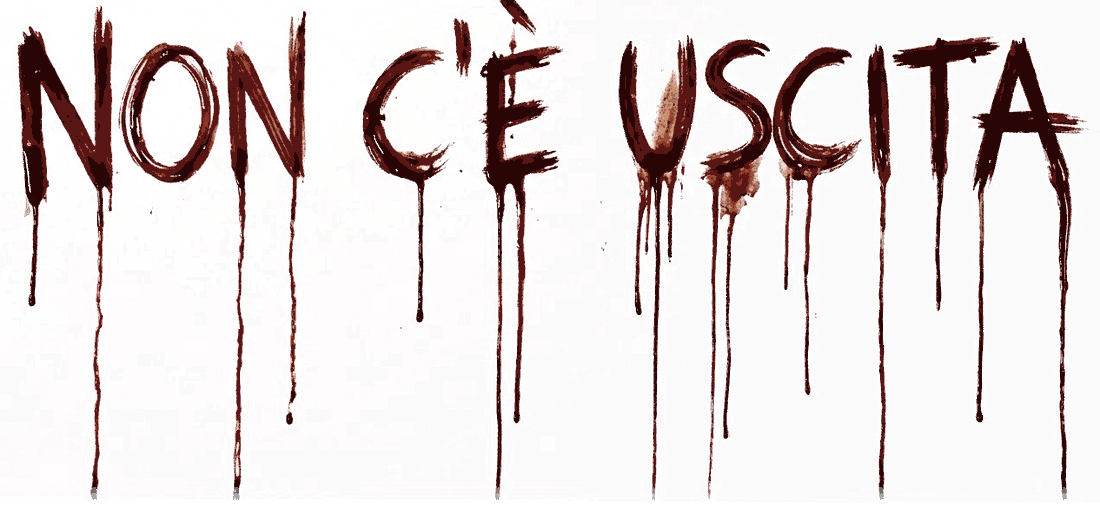
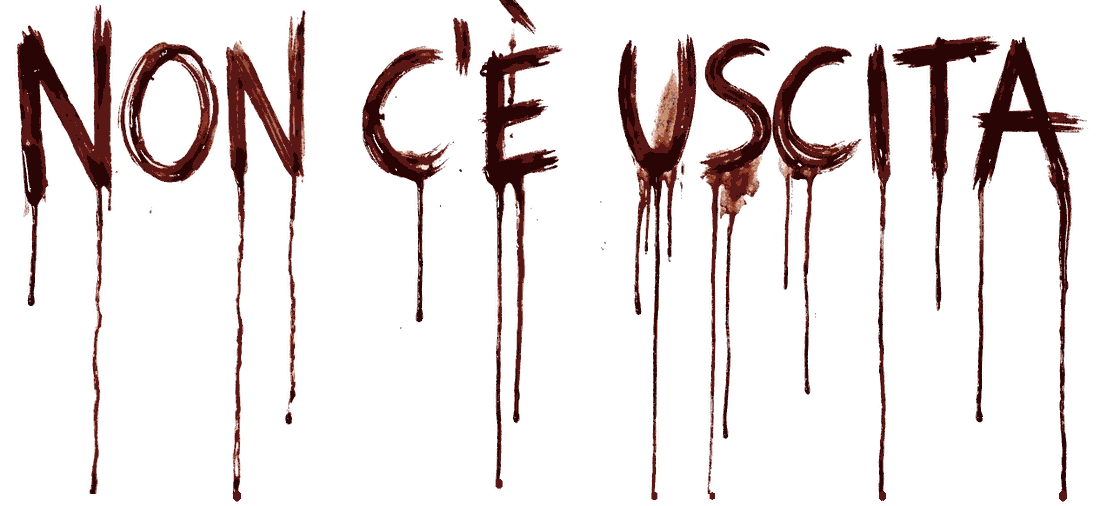
Scritte standard: colate di lunghezza e forma diverse (meno simmetriche)
Claude-Session: https://claude.ai/code/session_014dApnh5cQuMdZvTWDcVASP

diff --git a/sw.js b/sw.js
@@ -2,8 +2,8 @@
  * - Shell (html/css/js/vendor/icone): precache, cache-first. Nuova versione => nuovo SW "in attesa" => banner nell'app.
  * - Asset pesanti (modelli, texture, audio): cache separata; scaricati in background dopo l'installazione.
  * Le due versioni qui sotto le aggiorna tools/bump.sh a ogni modifica (hash del contenuto): non toccarle a mano. */
-const SHELL_VERSION = '640b9ba067';   // @shell
-const ASSET_VERSION = '8097afc078';   // @assets
+const SHELL_VERSION = '3964951753';   // @shell
+const ASSET_VERSION = '253e92c497';   // @assets
 const SHELL = 'ng-shell-' + SHELL_VERSION, ASSETS = 'ng-assets-' + ASSET_VERSION;
 const SHELL_FILES = ['./','./css/style.css','./icons/icon-180.png','./icons/icon-192.png','./icons/icon-32.png','./icons/icon-512.png','./icons/maskable-512.png','./index.html','./js/audio/audio.js','./js/events/ambient.js','./js/events/cellar.js','./js/events/combat.js','./js/events/dawn.js','./js/events/door.js','./js/events/glass.js','./js/events/hall.js','./js/events/morgue.js','./js/events/notes.js','./js/events/rats.js','./js/events/scare.js','./js/events/sorella.js','./js/events/tower.js','./js/events/tv.js','./js/events/warehouse.js','./js/main.js','./js/personal.js','./js/player/controls.js','./js/player/player.js','./js/pwa.js','./js/story.js','./js/ui/instability.js','./js/ui/rgbshift.js','./js/world/atmos.js','./js/world/blood.js','./js/world/bloodfont.js','./js/world/decor.js','./js/world/dust.js','./js/world/extra.js','./js/world/fingerwrite.js','./js/world/lights.js','./js/world/materials.js','./js/world/nun.js','./js/world/props.js','./js/world/redlight.js','./js/world/rooms.js','./js/world/tunnel.js','./manifest.webmanifest','./vendor/three/LICENSE','./vendor/three/Reflector.js','./vendor/three/loaders/GLTFLoader.js','./vendor/three/three.module.min.js','./vendor/three/utils/BufferGeometryUtils.js']; // @shellfiles
 const ASSET_FILES = ['./assets/audio/step0.mp3','./assets/audio/step1.mp3','./assets/audio/step2.mp3','./assets/audio/step3.mp3','./assets/audio/step4.mp3','./assets/models/ammo.glb','./assets/models/axe.glb','./assets/models/bin.glb','./assets/models/c_nurse.glb','./assets/models/c_occ.glb','./assets/models/cabinet.glb','./assets/models/cam.glb','./assets/models/can.glb','./assets/models/cart.glb','./assets/models/chair.glb','./assets/models/door.glb','./assets/models/gate.glb','./assets/models/hlamp.glb','./assets/models/kit_cables.glb','./assets/models/kit_fence.glb','./assets/models/kit_gutter.glb','./assets/models/kit_ind.glb','./assets/models/kit_manhole.glb','./assets/models/kit_pipes.glb','./assets/models/lamp.glb','./assets/models/m_bell.glb','./assets/models/m_diver.glb','./assets/models/m_nurse.glb','./assets/models/m_occ.glb','./assets/models/m_pirate.glb','./assets/models/m_root.glb','./assets/models/m_varka.glb','./assets/models/m_whisperer.glb','./assets/models/mg_chair.glb','./assets/models/mg_tool1.glb','./assets/models/mg_tool3.glb','./assets/models/mg_tool4.glb','./assets/models/mg_wall.glb','./assets/models/pistol.glb','./assets/models/rack.glb','./assets/models/rim.glb','./assets/models/seclight.glb','./assets/models/shelf.glb','./assets/models/slamp1.glb','./assets/models/slamp2.glb','./assets/models/sorella.glb','./assets/models/stool.glb','./assets/models/stove.glb','./assets/models/tank.glb','./assets/models/whisperer.glb','./assets/models/wlamp.glb','./assets/models/x_basket.glb','./assets/models/x_bust.glb','./assets/models/x_clock.glb','./assets/models/x_gnome.glb','./assets/models/x_lion.glb','./assets/models/x_micro.glb','./assets/models/x_rat.glb','./assets/models/x_screen.glb','./assets/models/x_spray.glb','./assets/models/x_tv.glb','./assets/models/x_watch.glb','./assets/tex/bath_bg.jpg','./assets/tex/blood_font.png','./assets/tex/brick_c.jpg','./assets/tex/brick_n.jpg','./assets/tex/brick_orm.jpg','./assets/tex/floorA_c.jpg','./assets/tex/floorA_n.jpg','./assets/tex/floorA_orm.jpg','./assets/tex/floorB_c.jpg','./assets/tex/floorB_n.jpg','./assets/tex/floorB_orm.jpg','./assets/tex/foot_l.png','./assets/tex/foot_r.png','./assets/tex/hall_bg.jpg','./assets/tex/handA.png','./assets/tex/handC.png','./assets/tex/mg_floor.jpg','./assets/tex/night_bg.jpg','./assets/tex/pic_drawing.jpg','./assets/tex/pic_elisa.jpg','./assets/tex/pic_yana.jpg','./assets/tex/rust_c.jpg','./assets/tex/rust_n.jpg','./assets/tex/rust_orm.jpg','./assets/tex/stone_c.jpg','./assets/tex/stone_n.jpg','./assets/tex/stone_orm.jpg','./assets/tex/wr_elisa_1.png','./assets/tex/wr_elisa_2.png','./assets/tex/wr_elisa_3.png','./assets/tex/wr_elisa_4.png','./assets/tex/wr_elisa_h.png','./assets/tex/wr_elisa_m.png','./assets/tex/wr_elisa_o.png','./assets/tex/wr_sigil.png','./assets/tex/wr_std_c2.png','./assets/tex/wr_std_h.png','./assets/tex/wr_std_m.png','./assets/tex/wr_std_o.png','./assets/tex/wr_std_t1.png','./assets/tex/wr_std_t3.png','./assets/tex/wr_std_w4.png','./assets/tex/wr_yana_1.png','./assets/tex/wr_yana_2.png','./assets/tex/wr_yana_3.png','./assets/tex/wr_yana_4.png','./assets/tex/wr_yana_h.png','./assets/tex/wr_yana_m.png','./assets/tex/wr_yana_o.png','./assets/tex/wr_yana_soul.png']; // @assetfiles

diff --git a/js/main.js b/js/main.js
@@ -188,7 +188,7 @@ async function enter() {
     if (PKEY !== 'elisa') writingDecals(morgue.group, [{ img: 'assets/tex/pic_yana.jpg', aspect: 0.741, p: [4.22, 1.5, MZ - 3.2], wall: '-x', w: 0.6, rot: -0.03, a: 1, plain: true }]); }
   // SCRITTE DI SANGUE per le versioni personalizzate (frasi con il suo nome; per Yana anche in ucraino), grandi sui muri
   const WRI = { yana: { t1: ['yana_1', 5.09, 4.4], t3: ['yana_3', 4.34, 4.2], c2: ['yana_2', 2.42, 3.6], w4: ['yana_4', 4.26, 5.4], o: ['yana_o', 7.05, 4.2], h: ['yana_h', 3.87, 2.65], m: ['yana_m', 6.67, 4.0] }, elisa: { t1: ['elisa_1', 4.89, 4.4], t3: ['elisa_3', 3.89, 4.0], c2: ['elisa_2', 2.63, 3.6], w4: ['elisa_4', 4.78, 5.4], o: ['elisa_o', 6.88, 4.2], h: ['elisa_h', 4.15, 2.65], m: ['elisa_m', 6.83, 4.0] } }[PKEY]
-    || (P ? null : { t1: ['std_t1', 3.385, 3.1], t3: ['std_t3', 2.872, 3.3], c2: ['std_c2', 1.398, 2.4], w4: ['std_w4', 3.293, 5.0], o: ['std_o', 3.86, 4.6], h: ['std_h', 1.877, 2.65], m: ['std_m', 2.174, 3.7] });   // versione standard: immagini di sangue (Gemini), senza nome
+    || (P ? null : { t1: ['std_t1', 2.6, 3.1], t3: ['std_t3', 2.361, 3.3], c2: ['std_c2', 1.36, 2.4], w4: ['std_w4', 2.552, 5.0], o: ['std_o', 2.902, 4.6], h: ['std_h', 1.774, 2.65], m: ['std_m', 2.174, 3.7] });   // versione standard: immagini di sangue (Gemini), senza nome
   // chiunque altro: stesse posizioni, frasi scritte al volo con il font di sangue (js/world/bloodfont.js); [testo, _, larghezza massima]
   const GN = P ? P.name.toUpperCase() : '', GF = P?.f !== false;
   // altezza (m) delle scritte al volo in ogni punto: le frasi nuove (la larghezza segue il testo ed e' comunque limitata allo spazio libero, vedi fit)
